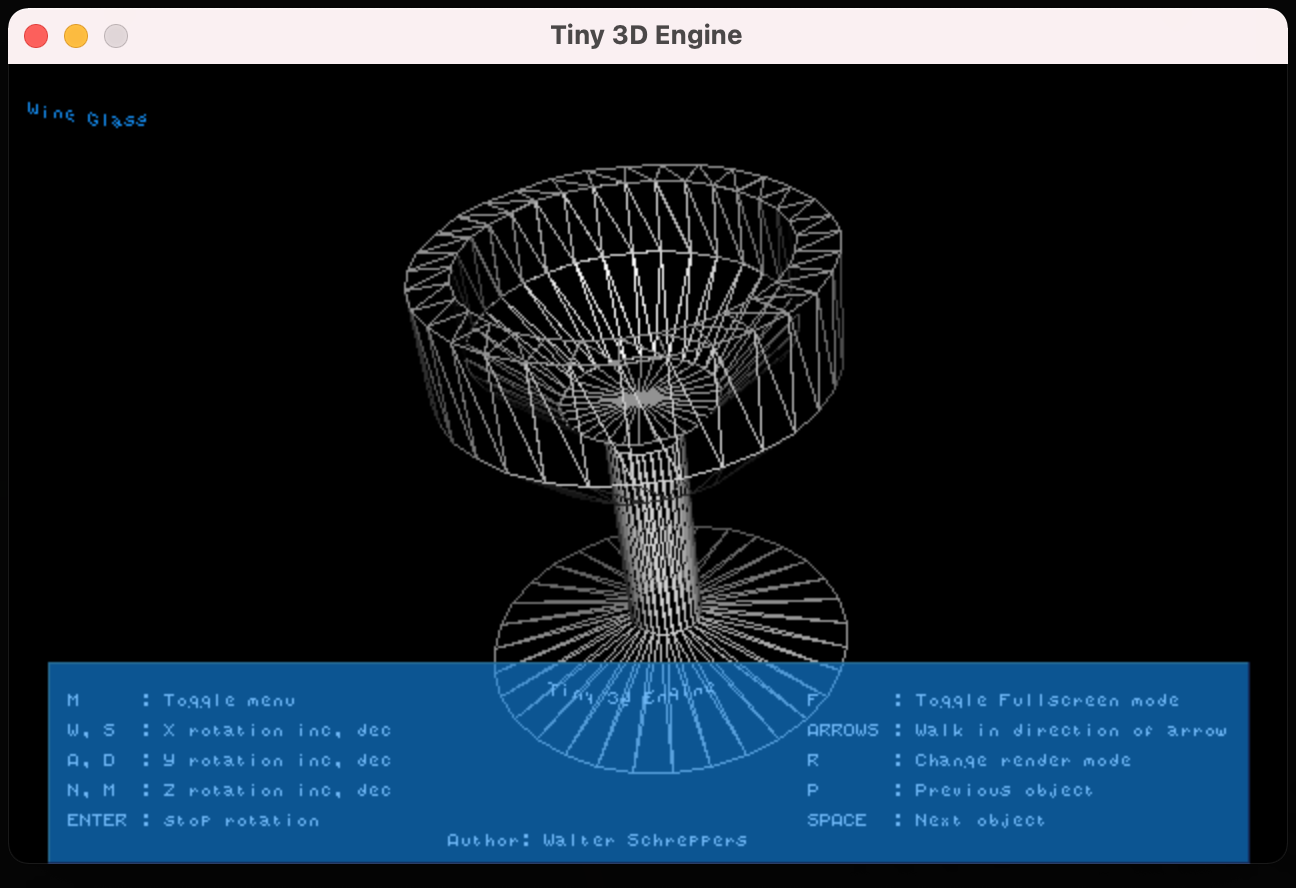
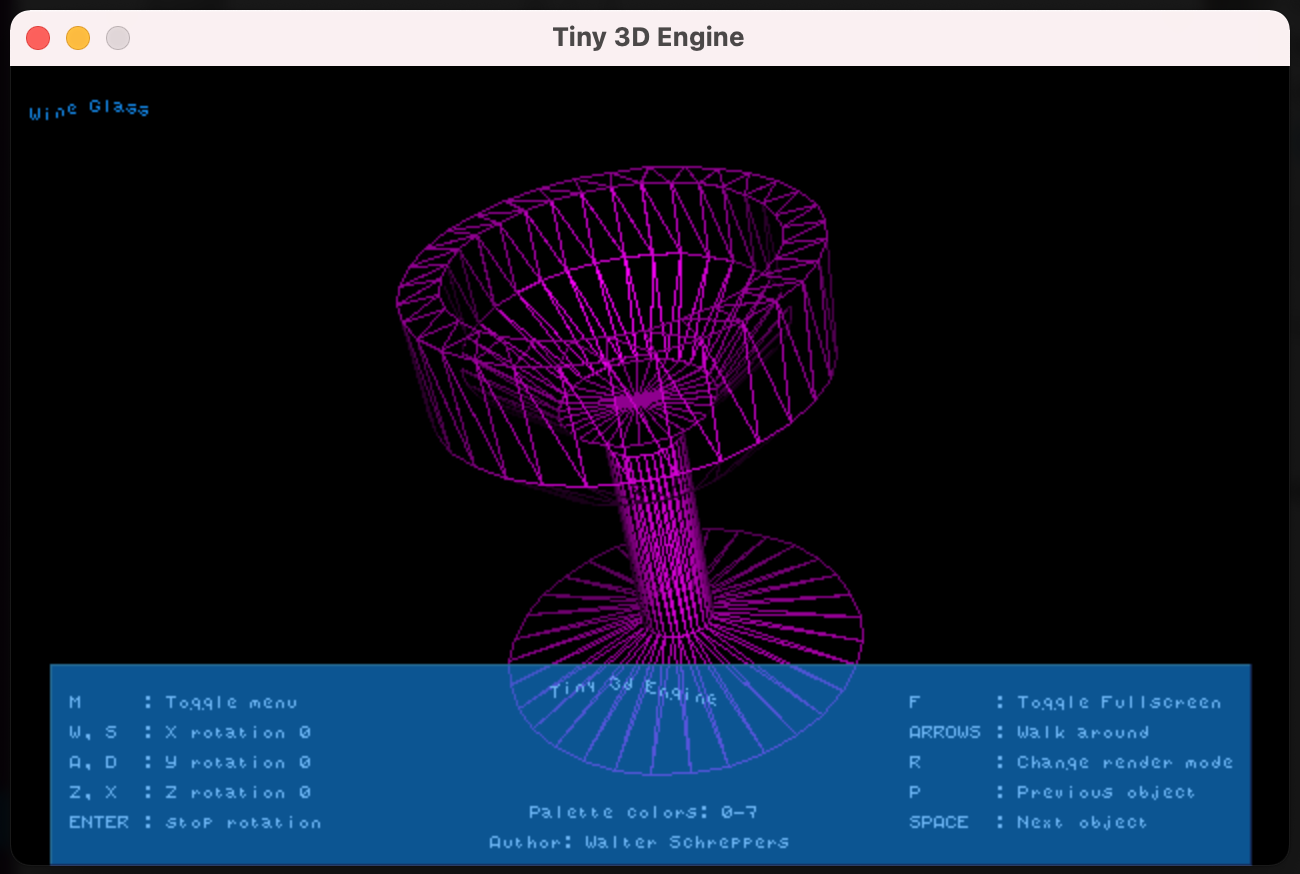
update screens. make placement of text in menu better

diff --git a/menu.cpp b/menu.cpp
@@ -154,15 +154,15 @@ void Menu::draw() {
   
   menufont->print(30, yOffset + 75, "ENTER : stop rotation");
 
-  menufont->print(menu_width-190, yOffset + 15,  "F      : Toggle Fullscreen");
-  menufont->print(menu_width-190, yOffset + 30,  "ARROWS : Walk around");
-  menufont->print(menu_width-190, yOffset + 45,  "R      : Change render mode");
-  menufont->print(menu_width-190, yOffset + 60,  "P      : Previous object");
-  menufont->print(menu_width-190, yOffset + 75,  "SPACE  : Next object");
+  menufont->print(menu_width-150, yOffset + 15,  "F      : Toggle Fullscreen");
+  menufont->print(menu_width-150, yOffset + 30,  "ARROWS : Walk around");
+  menufont->print(menu_width-150, yOffset + 45,  "R      : Change render mode");
+  menufont->print(menu_width-150, yOffset + 60,  "P      : Previous object");
+  menufont->print(menu_width-150, yOffset + 75,  "SPACE  : Next object");
 
   menufont->print_wavy(screen->center_x - 50, yOffset + 10, "Tiny 3d Engine");
-  menufont->print(screen->center_x-80, yOffset+70, "Palette colors: 0-7");
-  menufont->print(screen->center_x - 100, yOffset + 85, "Author: Walter Schreppers");
+  menufont->print(screen->center_x - 60, yOffset+70, "Palette colors: 0-7");
+  menufont->print(screen->center_x - 80, yOffset + 85, "Author: Walter Schreppers");
 }
 
 void Menu::handle_events() {
